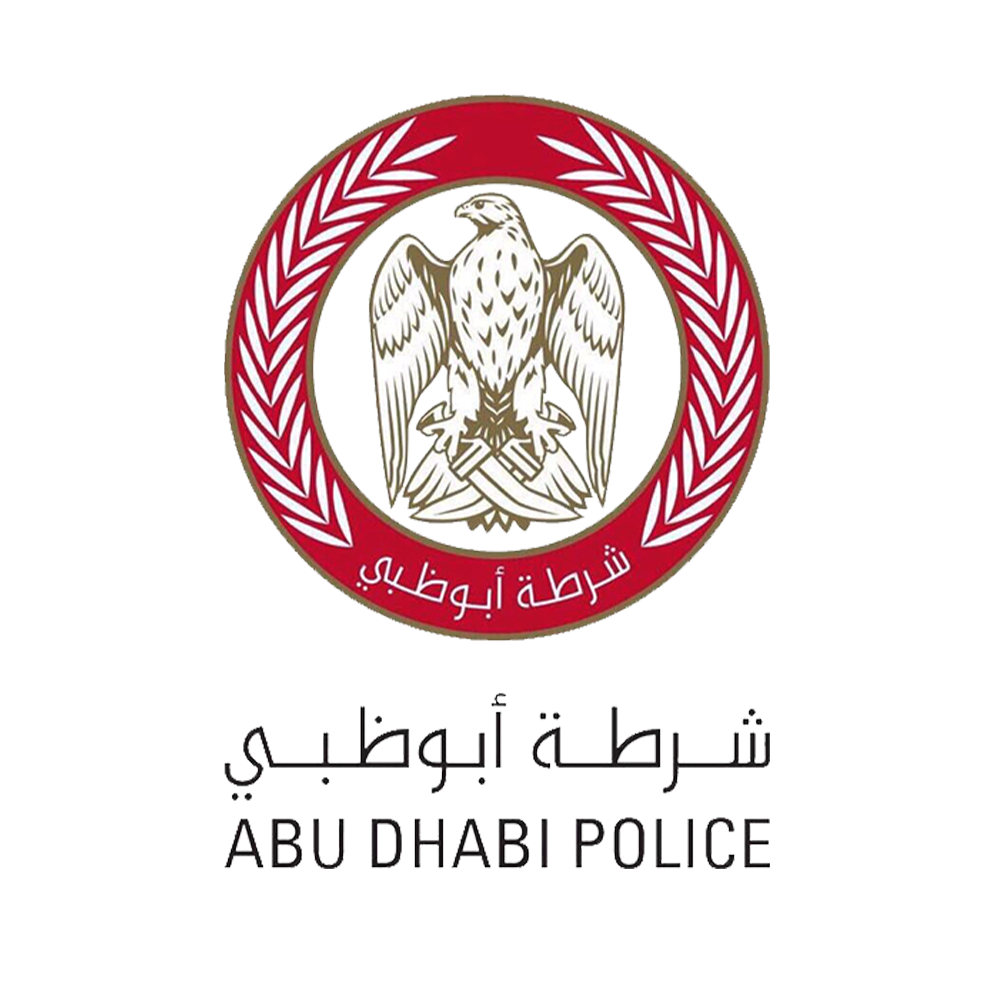
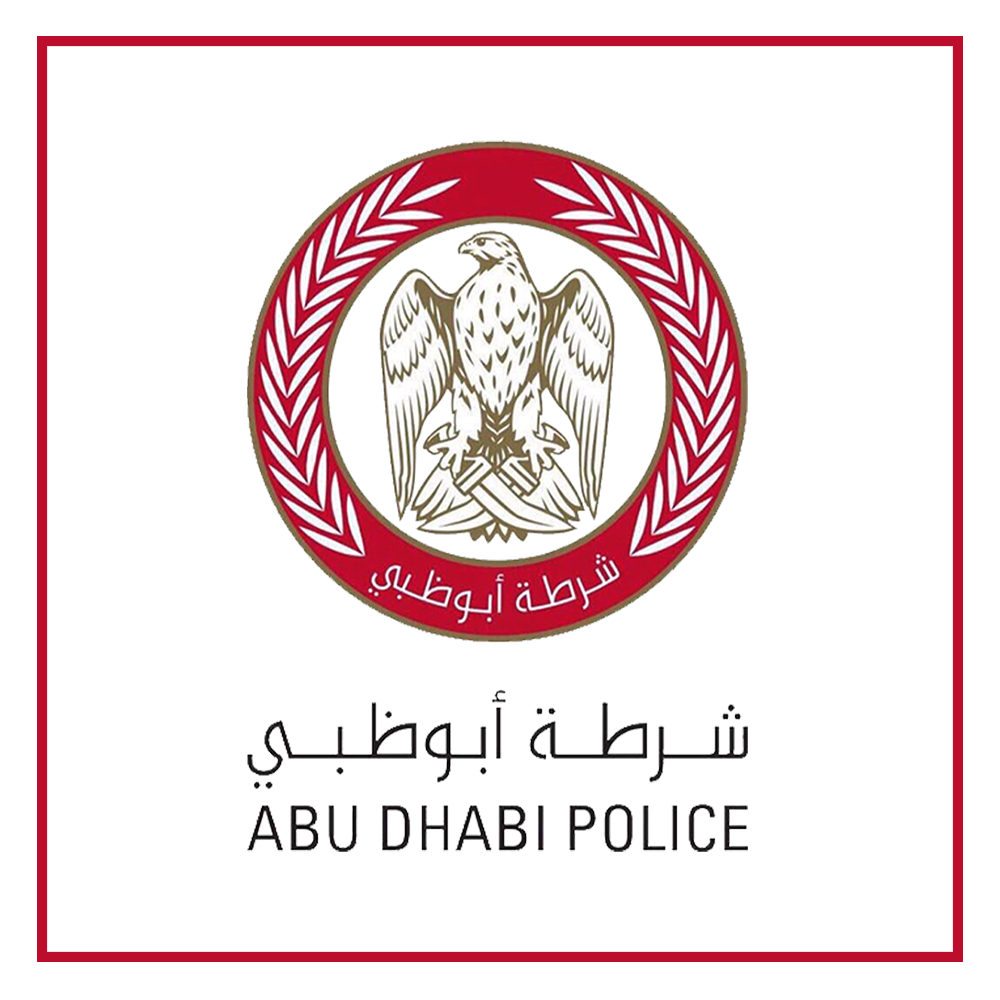
added new and better initialized images.

diff --git a/Project-CountryWebsite/2-safety.css b/Project-CountryWebsite/2-safety.css
@@ -91,6 +91,7 @@ iframe {
        flex-direction: row-reverse;
        justify-content: center;
        padding: 20px;
+       
     }
 
     .safety-content {
@@ -101,8 +102,11 @@ iframe {
     .def-image-container{
         display: flex;
         flex-direction: row;
+        gap: 20px;
+        padding: 20px;
+        
     }
-
+    
     .safety-highlight-content {
         text-align: center;
         max-width: 1000px;
